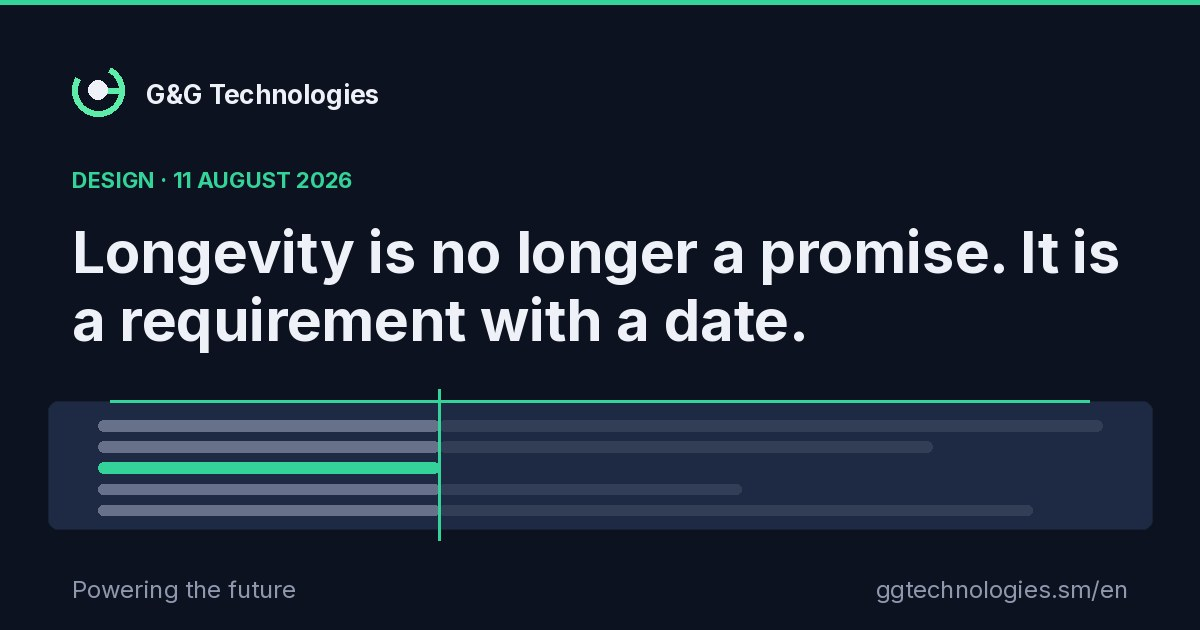
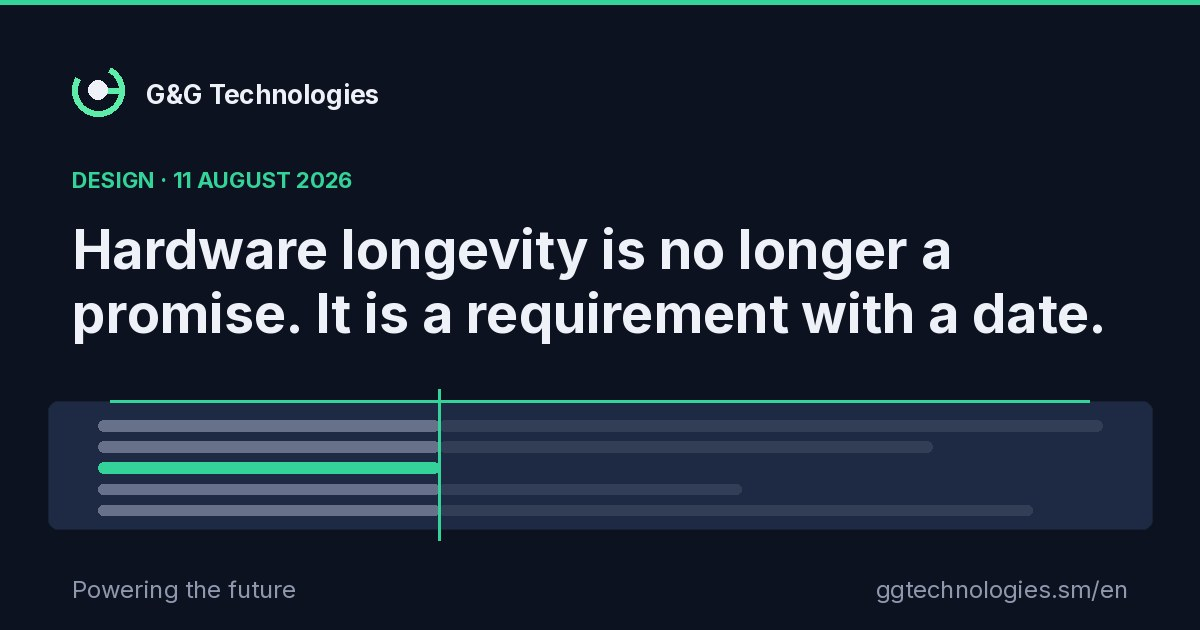
no message

Changed region(s): [[0.0617, 0.3619, 0.9558, 0.573]]

diff --git a/insights/index.html b/insights/index.html
@@ -42,7 +42,7 @@
       document.documentElement.classList.add('js');
     })();
   </script>
-  <link rel="stylesheet" href="../assets/site.css">
+  <link rel="stylesheet" href="../assets/site.58cf0724.css">
   <script type="application/ld+json">
 [
   {
@@ -125,7 +125,7 @@
         <div class="filters" data-filters hidden>
           <span class="filter-label">Filtra per argomento</span>
           <button class="filter-btn" type="button" data-tag="" aria-pressed="true">Tutti</button>
-          <button class="filter-btn" type="button" data-tag="robotica">Robotica</button><button class="filter-btn" type="button" data-tag="wearable">Wearable</button><button class="filter-btn" type="button" data-tag="ia">IA</button>
+          <button class="filter-btn" type="button" data-tag="robotica">Robotica</button><button class="filter-btn" type="button" data-tag="automazione">Automazione</button><button class="filter-btn" type="button" data-tag="wearable">Wearable</button><button class="filter-btn" type="button" data-tag="ia">IA</button>
         </div>
         <p class="filter-empty" data-filter-empty hidden>Nessun articolo con questo argomento, per ora.</p>
         <div class="insight-list">
@@ -141,9 +141,17 @@
              data-tags="wearable robotica">
             <span class="insight-thumb"><svg viewBox="0 0 800 200" aria-hidden="true" focusable="false"><ellipse cx="240" cy="100" rx="272" ry="104" fill="url(#artGlow)"/><rect x="32" y="31" width="736" height="137" rx="10" fill="url(#artPanel)" stroke="var(--border)"/><path d="M74 31 L726 31" stroke="url(#artEdge)" stroke-width="2" stroke-linecap="round"/><rect x="65" y="52" width="228" height="11" rx="4" fill="var(--muted)" opacity="0.52"/><rect x="293" y="52" width="442" height="11" rx="4" fill="var(--muted)" opacity="0.14"/><rect x="65" y="75" width="228" height="11" rx="4" fill="var(--muted)" opacity="0.52"/><rect x="293" y="75" width="328" height="11" rx="4" fill="var(--muted)" opacity="0.14"/><rect x="65" y="97" width="228" height="11" rx="4" fill="url(#artEdge)" opacity="1.00"/><rect x="65" y="120" width="228" height="11" rx="4" fill="var(--muted)" opacity="0.52"/><rect x="293" y="120" width="201" height="11" rx="4" fill="var(--muted)" opacity="0.14"/><rect x="65" y="143" width="228" height="11" rx="4" fill="var(--muted)" opacity="0.52"/><rect x="293" y="143" width="395" height="11" rx="4" fill="var(--muted)" opacity="0.14"/><path d="M293 19 L293 181" stroke="url(#artEdge)" stroke-width="2" stroke-linecap="round"/></svg></span>
             <div class="kicker">Progettazione · 11 agosto 2026</div>
-            <h3>La durata è diventata un requisito</h3>
+            <h3>La durata dell'hardware è diventata un requisito</h3>
             <p>Ecodesign, diritto alla riparazione e regolamento batterie si sommano: cosa cambia per chi progetta hardware, e le decisioni da prendere prima dell'architettura.</p>
             <span class="tag-row"><span class="tag">Wearable</span><span class="tag">Robotica</span></span>
+          </a>
+          <a class="insight-card reveal" href="/insights/telefono-come-sensore/"
+             data-tags="robotica automazione">
+            <span class="insight-thumb"><svg viewBox="0 0 800 200" aria-hidden="true" focusable="false"><ellipse cx="400" cy="100" rx="304" ry="104" fill="url(#artGlow)"/><rect x="32" y="31" width="736" height="137" rx="10" fill="url(#artPanel)" stroke="var(--border)"/><path d="M74 31 L726 31" stroke="url(#artEdge)" stroke-width="2" stroke-linecap="round"/><rect x="65" y="52" width="12" height="12" rx="4" fill="var(--muted)" opacity="0.22"/><rect x="112" y="52" width="12" height="12" rx="4" fill="var(--muted)" opacity="0.27"/><rect x="159" y="52" width="12" height="12" rx="4" fill="var(--muted)" opacity="0.32"/><rect x="206" y="52" width="12" height="12" rx="4" fill="var(--muted)" opacity="0.22"/><rect x="253" y="52" width="12" height="12" rx="4" fill="var(--muted)" opacity="0.27"/><rect x="300" y="52" width="12" height="12" rx="4" fill="var(--muted)" opacity="0.32"/><rect x="347" y="52" width="12" height="12" rx="4" fill="url(#artEdge)" opacity="1.00"/><rect x="394" y="52" width="12" height="12" rx="4" fill="var(--muted)" opacity="0.27"/><rect x="441" y="52" width="12" height="12" rx="4" fill="var(--muted)" opacity="0.32"/><rect x="488" y="52" width="12" height="12" rx="4" fill="var(--muted)" opacity="0.22"/><rect x="535" y="52" width="12" height="12" rx="4" fill="var(--muted)" opacity="0.27"/><rect x="582" y="52" width="12" height="12" rx="4" fill="var(--muted)" opacity="0.32"/><rect x="629" y="52" width="12" height="12" rx="4" fill="var(--muted)" opacity="0.22"/><rect x="676" y="52" width="12" height="12" rx="4" fill="var(--muted)" opacity="0.27"/><rect x="723" y="52" width="12" height="12" rx="4" fill="var(--muted)" opacity="0.32"/><rect x="65" y="73" width="12" height="12" rx="4" fill="var(--muted)" opacity="0.27"/><rect x="112" y="73" width="12" height="12" rx="4" fill="var(--muted)" opacity="0.32"/><rect x="159" y="73" width="12" height="12" rx="4" fill="url(#artEdge)" opacity="1.00"/><rect x="206" y="73" width="12" height="12" rx="4" fill="var(--muted)" opacity="0.27"/><rect x="253" y="73" width="12" height="12" rx="4" fill="var(--muted)" opacity="0.32"/><rect x="300" y="73" width="12" height="12" rx="4" fill="var(--muted)" opacity="0.22"/><rect x="347" y="73" width="12" height="12" rx="4" fill="var(--muted)" opacity="0.27"/><rect x="394" y="73" width="12" height="12" rx="4" fill="var(--muted)" opacity="0.32"/><rect x="441" y="73" width="12" height="12" rx="4" fill="var(--muted)" opacity="0.22"/><rect x="488" y="73" width="12" height="12" rx="4" fill="var(--muted)" opacity="0.27"/><rect x="535" y="73" width="12" height="12" rx="4" fill="var(--muted)" opacity="0.32"/><rect x="582" y="73" width="12" height="12" rx="4" fill="var(--muted)" opacity="0.22"/><rect x="629" y="73" width="12" height="12" rx="4" fill="var(--muted)" opacity="0.27"/><rect x="676" y="73" width="12" height="12" rx="4" fill="var(--muted)" opacity="0.32"/><rect x="723" y="73" width="12" height="12" rx="4" fill="var(--muted)" opacity="0.22"/><rect x="65" y="94" width="12" height="12" rx="4" fill="var(--muted)" opacity="0.32"/><rect x="112" y="94" width="12" height="12" rx="4" fill="var(--muted)" opacity="0.22"/><rect x="159" y="94" width="12" height="12" rx="4" fill="var(--muted)" opacity="0.27"/><rect x="206" y="94" width="12" height="12" rx="4" fill="var(--muted)" opacity="0.32"/><rect x="253" y="94" width="12" height="12" rx="4" fill="var(--muted)" opacity="0.22"/><rect x="300" y="94" width="12" height="12" rx="4" fill="var(--muted)" opacity="0.27"/><rect x="347" y="94" width="12" height="12" rx="4" fill="var(--muted)" opacity="0.32"/><rect x="394" y="94" width="12" height="12" rx="4" fill="var(--muted)" opacity="0.22"/><rect x="441" y="94" width="12" height="12" rx="4" fill="var(--muted)" opacity="0.27"/><rect x="488" y="94" width="12" height="12" rx="4" fill="url(#artEdge)" opacity="1.00"/><rect x="535" y="94" width="12" height="12" rx="4" fill="var(--muted)" opacity="0.22"/><rect x="582" y="94" width="12" height="12" rx="4" fill="var(--muted)" opacity="0.27"/><rect x="629" y="94" width="12" height="12" rx="4" fill="var(--muted)" opacity="0.32"/><rect x="676" y="94" width="12" height="12" rx="4" fill="var(--muted)" opacity="0.22"/><rect x="723" y="94" width="12" height="12" rx="4" fill="var(--muted)" opacity="0.27"/><rect x="65" y="115" width="12" height="12" rx="4" fill="var(--muted)" opacity="0.22"/><rect x="112" y="115" width="12" height="12" rx="4" fill="var(--muted)" opacity="0.27"/><rect x="159" y="115" width="12" height="12" rx="4" fill="var(--muted)" opacity="0.32"/><rect x="206" y="115" width="12" height="12" rx="4" fill="var(--muted)" opacity="0.22"/><rect x="253" y="115" width="12" height="12" rx="4" fill="url(#artEdge)" opacity="1.00"/><rect x="300" y="115" width="12" height="12" rx="4" fill="var(--muted)" opacity="0.32"/><rect x="347" y="115" width="12" height="12" rx="4" fill="var(--muted)" opacity="0.22"/><rect x="394" y="115" width="12" height="12" rx="4" fill="var(--muted)" opacity="0.27"/><rect x="441" y="115" width="12" height="12" rx="4" fill="var(--muted)" opacity="0.32"/><rect x="488" y="115" width="12" height="12" rx="4" fill="var(--muted)" opacity="0.22"/><rect x="535" y="115" width="12" height="12" rx="4" fill="var(--muted)" opacity="0.27"/><rect x="582" y="115" width="12" height="12" rx="4" fill="var(--muted)" opacity="0.32"/><rect x="629" y="115" width="12" height="12" rx="4" fill="var(--muted)" opacity="0.22"/><rect x="676" y="115" width="12" height="12" rx="4" fill="var(--muted)" opacity="0.27"/><rect x="723" y="115" width="12" height="12" rx="4" fill="var(--muted)" opacity="0.32"/><rect x="65" y="136" width="12" height="12" rx="4" fill="var(--muted)" opacity="0.27"/><rect x="112" y="136" width="12" height="12" rx="4" fill="var(--muted)" opacity="0.32"/><rect x="159" y="136" width="12" height="12" rx="4" fill="var(--muted)" opacity="0.22"/><rect x="206" y="136" width="12" height="12" rx="4" fill="var(--muted)" opacity="0.27"/><rect x="253" y="136" width="12" height="12" rx="4" fill="var(--muted)" opacity="0.32"/><rect x="300" y="136" width="12" height="12" rx="4" fill="var(--muted)" opacity="0.22"/><rect x="347" y="136" width="12" height="12" rx="4" fill="var(--muted)" opacity="0.27"/><rect x="394" y="136" width="12" height="12" rx="4" fill="var(--muted)" opacity="0.32"/><rect x="441" y="136" width="12" height="12" rx="4" fill="var(--muted)" opacity="0.22"/><rect x="488" y="136" width="12" height="12" rx="4" fill="var(--muted)" opacity="0.27"/><rect x="535" y="136" width="12" height="12" rx="4" fill="var(--muted)" opacity="0.32"/><rect x="582" y="136" width="12" height="12" rx="4" fill="var(--muted)" opacity="0.22"/><rect x="629" y="136" width="12" height="12" rx="4" fill="url(#artEdge)" opacity="1.00"/><rect x="676" y="136" width="12" height="12" rx="4" fill="var(--muted)" opacity="0.32"/><rect x="723" y="136" width="12" height="12" rx="4" fill="var(--muted)" opacity="0.22"/></svg></span>
+            <div class="kicker">Progettazione · 11 agosto 2026 · bozza</div>
+            <h3>Il telefono che hai già è un nodo sensore</h3>
+            <p>Prima di comprare hardware per un pilota: cosa un telefono dismesso misura già, e i cinque confini oltre i quali smette di bastare.</p>
+            <span class="tag-row"><span class="tag">Robotica</span><span class="tag">Automazione</span></span>
           </a>
         </div>
       </div>
@@ -199,6 +207,6 @@
     </div>
   </footer>
 
-  <script src="../assets/site.js" defer></script>
+  <script src="../assets/site.e222d9a6.js" defer></script>
 </body>
 </html>

diff --git a/en/insights/index.html b/en/insights/index.html
@@ -42,7 +42,7 @@
       document.documentElement.classList.add('js');
     })();
   </script>
-  <link rel="stylesheet" href="../../assets/site.css">
+  <link rel="stylesheet" href="../../assets/site.58cf0724.css">
   <script type="application/ld+json">
 [
   {
@@ -125,7 +125,7 @@
         <div class="filters" data-filters hidden>
           <span class="filter-label">Filter by topic</span>
           <button class="filter-btn" type="button" data-tag="" aria-pressed="true">All</button>
-          <button class="filter-btn" type="button" data-tag="robotica">Robotics</button><button class="filter-btn" type="button" data-tag="wearable">Wearables</button><button class="filter-btn" type="button" data-tag="ia">AI</button>
+          <button class="filter-btn" type="button" data-tag="robotica">Robotics</button><button class="filter-btn" type="button" data-tag="automazione">Automation</button><button class="filter-btn" type="button" data-tag="wearable">Wearables</button><button class="filter-btn" type="button" data-tag="ia">AI</button>
         </div>
         <p class="filter-empty" data-filter-empty hidden>No articles on this topic yet.</p>
         <div class="insight-list">
@@ -141,9 +141,17 @@
              data-tags="wearable robotica">
             <span class="insight-thumb"><svg viewBox="0 0 800 200" aria-hidden="true" focusable="false"><ellipse cx="240" cy="100" rx="272" ry="104" fill="url(#artGlow)"/><rect x="32" y="31" width="736" height="137" rx="10" fill="url(#artPanel)" stroke="var(--border)"/><path d="M74 31 L726 31" stroke="url(#artEdge)" stroke-width="2" stroke-linecap="round"/><rect x="65" y="52" width="228" height="11" rx="4" fill="var(--muted)" opacity="0.52"/><rect x="293" y="52" width="442" height="11" rx="4" fill="var(--muted)" opacity="0.14"/><rect x="65" y="75" width="228" height="11" rx="4" fill="var(--muted)" opacity="0.52"/><rect x="293" y="75" width="328" height="11" rx="4" fill="var(--muted)" opacity="0.14"/><rect x="65" y="97" width="228" height="11" rx="4" fill="url(#artEdge)" opacity="1.00"/><rect x="65" y="120" width="228" height="11" rx="4" fill="var(--muted)" opacity="0.52"/><rect x="293" y="120" width="201" height="11" rx="4" fill="var(--muted)" opacity="0.14"/><rect x="65" y="143" width="228" height="11" rx="4" fill="var(--muted)" opacity="0.52"/><rect x="293" y="143" width="395" height="11" rx="4" fill="var(--muted)" opacity="0.14"/><path d="M293 19 L293 181" stroke="url(#artEdge)" stroke-width="2" stroke-linecap="round"/></svg></span>
             <div class="kicker">Design · 11 August 2026</div>
-            <h3>Longevity has become a requirement</h3>
+            <h3>Hardware longevity has become a requirement</h3>
             <p>Ecodesign, the right to repair and the battery regulation stack up: what changes for people designing hardware, and the decisions to take before the architecture.</p>
             <span class="tag-row"><span class="tag">Wearables</span><span class="tag">Robotics</span></span>
+          </a>
+          <a class="insight-card reveal" href="/en/insights/phone-as-a-sensor/"
+             data-tags="robotica automazione">
+            <span class="insight-thumb"><svg viewBox="0 0 800 200" aria-hidden="true" focusable="false"><ellipse cx="400" cy="100" rx="304" ry="104" fill="url(#artGlow)"/><rect x="32" y="31" width="736" height="137" rx="10" fill="url(#artPanel)" stroke="var(--border)"/><path d="M74 31 L726 31" stroke="url(#artEdge)" stroke-width="2" stroke-linecap="round"/><rect x="65" y="52" width="12" height="12" rx="4" fill="var(--muted)" opacity="0.22"/><rect x="112" y="52" width="12" height="12" rx="4" fill="var(--muted)" opacity="0.27"/><rect x="159" y="52" width="12" height="12" rx="4" fill="var(--muted)" opacity="0.32"/><rect x="206" y="52" width="12" height="12" rx="4" fill="var(--muted)" opacity="0.22"/><rect x="253" y="52" width="12" height="12" rx="4" fill="var(--muted)" opacity="0.27"/><rect x="300" y="52" width="12" height="12" rx="4" fill="var(--muted)" opacity="0.32"/><rect x="347" y="52" width="12" height="12" rx="4" fill="url(#artEdge)" opacity="1.00"/><rect x="394" y="52" width="12" height="12" rx="4" fill="var(--muted)" opacity="0.27"/><rect x="441" y="52" width="12" height="12" rx="4" fill="var(--muted)" opacity="0.32"/><rect x="488" y="52" width="12" height="12" rx="4" fill="var(--muted)" opacity="0.22"/><rect x="535" y="52" width="12" height="12" rx="4" fill="var(--muted)" opacity="0.27"/><rect x="582" y="52" width="12" height="12" rx="4" fill="var(--muted)" opacity="0.32"/><rect x="629" y="52" width="12" height="12" rx="4" fill="var(--muted)" opacity="0.22"/><rect x="676" y="52" width="12" height="12" rx="4" fill="var(--muted)" opacity="0.27"/><rect x="723" y="52" width="12" height="12" rx="4" fill="var(--muted)" opacity="0.32"/><rect x="65" y="73" width="12" height="12" rx="4" fill="var(--muted)" opacity="0.27"/><rect x="112" y="73" width="12" height="12" rx="4" fill="var(--muted)" opacity="0.32"/><rect x="159" y="73" width="12" height="12" rx="4" fill="url(#artEdge)" opacity="1.00"/><rect x="206" y="73" width="12" height="12" rx="4" fill="var(--muted)" opacity="0.27"/><rect x="253" y="73" width="12" height="12" rx="4" fill="var(--muted)" opacity="0.32"/><rect x="300" y="73" width="12" height="12" rx="4" fill="var(--muted)" opacity="0.22"/><rect x="347" y="73" width="12" height="12" rx="4" fill="var(--muted)" opacity="0.27"/><rect x="394" y="73" width="12" height="12" rx="4" fill="var(--muted)" opacity="0.32"/><rect x="441" y="73" width="12" height="12" rx="4" fill="var(--muted)" opacity="0.22"/><rect x="488" y="73" width="12" height="12" rx="4" fill="var(--muted)" opacity="0.27"/><rect x="535" y="73" width="12" height="12" rx="4" fill="var(--muted)" opacity="0.32"/><rect x="582" y="73" width="12" height="12" rx="4" fill="var(--muted)" opacity="0.22"/><rect x="629" y="73" width="12" height="12" rx="4" fill="var(--muted)" opacity="0.27"/><rect x="676" y="73" width="12" height="12" rx="4" fill="var(--muted)" opacity="0.32"/><rect x="723" y="73" width="12" height="12" rx="4" fill="var(--muted)" opacity="0.22"/><rect x="65" y="94" width="12" height="12" rx="4" fill="var(--muted)" opacity="0.32"/><rect x="112" y="94" width="12" height="12" rx="4" fill="var(--muted)" opacity="0.22"/><rect x="159" y="94" width="12" height="12" rx="4" fill="var(--muted)" opacity="0.27"/><rect x="206" y="94" width="12" height="12" rx="4" fill="var(--muted)" opacity="0.32"/><rect x="253" y="94" width="12" height="12" rx="4" fill="var(--muted)" opacity="0.22"/><rect x="300" y="94" width="12" height="12" rx="4" fill="var(--muted)" opacity="0.27"/><rect x="347" y="94" width="12" height="12" rx="4" fill="var(--muted)" opacity="0.32"/><rect x="394" y="94" width="12" height="12" rx="4" fill="var(--muted)" opacity="0.22"/><rect x="441" y="94" width="12" height="12" rx="4" fill="var(--muted)" opacity="0.27"/><rect x="488" y="94" width="12" height="12" rx="4" fill="url(#artEdge)" opacity="1.00"/><rect x="535" y="94" width="12" height="12" rx="4" fill="var(--muted)" opacity="0.22"/><rect x="582" y="94" width="12" height="12" rx="4" fill="var(--muted)" opacity="0.27"/><rect x="629" y="94" width="12" height="12" rx="4" fill="var(--muted)" opacity="0.32"/><rect x="676" y="94" width="12" height="12" rx="4" fill="var(--muted)" opacity="0.22"/><rect x="723" y="94" width="12" height="12" rx="4" fill="var(--muted)" opacity="0.27"/><rect x="65" y="115" width="12" height="12" rx="4" fill="var(--muted)" opacity="0.22"/><rect x="112" y="115" width="12" height="12" rx="4" fill="var(--muted)" opacity="0.27"/><rect x="159" y="115" width="12" height="12" rx="4" fill="var(--muted)" opacity="0.32"/><rect x="206" y="115" width="12" height="12" rx="4" fill="var(--muted)" opacity="0.22"/><rect x="253" y="115" width="12" height="12" rx="4" fill="url(#artEdge)" opacity="1.00"/><rect x="300" y="115" width="12" height="12" rx="4" fill="var(--muted)" opacity="0.32"/><rect x="347" y="115" width="12" height="12" rx="4" fill="var(--muted)" opacity="0.22"/><rect x="394" y="115" width="12" height="12" rx="4" fill="var(--muted)" opacity="0.27"/><rect x="441" y="115" width="12" height="12" rx="4" fill="var(--muted)" opacity="0.32"/><rect x="488" y="115" width="12" height="12" rx="4" fill="var(--muted)" opacity="0.22"/><rect x="535" y="115" width="12" height="12" rx="4" fill="var(--muted)" opacity="0.27"/><rect x="582" y="115" width="12" height="12" rx="4" fill="var(--muted)" opacity="0.32"/><rect x="629" y="115" width="12" height="12" rx="4" fill="var(--muted)" opacity="0.22"/><rect x="676" y="115" width="12" height="12" rx="4" fill="var(--muted)" opacity="0.27"/><rect x="723" y="115" width="12" height="12" rx="4" fill="var(--muted)" opacity="0.32"/><rect x="65" y="136" width="12" height="12" rx="4" fill="var(--muted)" opacity="0.27"/><rect x="112" y="136" width="12" height="12" rx="4" fill="var(--muted)" opacity="0.32"/><rect x="159" y="136" width="12" height="12" rx="4" fill="var(--muted)" opacity="0.22"/><rect x="206" y="136" width="12" height="12" rx="4" fill="var(--muted)" opacity="0.27"/><rect x="253" y="136" width="12" height="12" rx="4" fill="var(--muted)" opacity="0.32"/><rect x="300" y="136" width="12" height="12" rx="4" fill="var(--muted)" opacity="0.22"/><rect x="347" y="136" width="12" height="12" rx="4" fill="var(--muted)" opacity="0.27"/><rect x="394" y="136" width="12" height="12" rx="4" fill="var(--muted)" opacity="0.32"/><rect x="441" y="136" width="12" height="12" rx="4" fill="var(--muted)" opacity="0.22"/><rect x="488" y="136" width="12" height="12" rx="4" fill="var(--muted)" opacity="0.27"/><rect x="535" y="136" width="12" height="12" rx="4" fill="var(--muted)" opacity="0.32"/><rect x="582" y="136" width="12" height="12" rx="4" fill="var(--muted)" opacity="0.22"/><rect x="629" y="136" width="12" height="12" rx="4" fill="url(#artEdge)" opacity="1.00"/><rect x="676" y="136" width="12" height="12" rx="4" fill="var(--muted)" opacity="0.32"/><rect x="723" y="136" width="12" height="12" rx="4" fill="var(--muted)" opacity="0.22"/></svg></span>
+            <div class="kicker">Design · 11 August 2026 · draft</div>
+            <h3>The phone you already own is a sensor node</h3>
+            <p>Before buying hardware for a pilot: what a retired phone already measures, and the five boundaries where it stops being enough.</p>
+            <span class="tag-row"><span class="tag">Robotics</span><span class="tag">Automation</span></span>
           </a>
         </div>
       </div>
@@ -199,6 +207,6 @@
     </div>
   </footer>
 
-  <script src="../../assets/site.js" defer></script>
+  <script src="../../assets/site.e222d9a6.js" defer></script>
 </body>
 </html>

diff --git a/insights/durabilita-per-progetto/index.html b/insights/durabilita-per-progetto/index.html
@@ -3,7 +3,7 @@
 <head>
   <meta charset="UTF-8">
   <meta name="viewport" content="width=device-width, initial-scale=1.0">
-  <title>La durata è diventata un requisito — G&amp;G Technologies</title>
+  <title>La durata dell'hardware è un requisito — G&amp;G Technologies</title>
   <meta name="description" content="Ecodesign, diritto alla riparazione e regolamento batterie si sommano: cosa cambia per chi progetta hardware, e le decisioni da prendere prima dell'architettura.">
   <meta name="author" content="Gian Angelo Geminiani">
   <meta name="robots" content="index, follow, max-image-preview:large">
@@ -15,7 +15,7 @@
   <!-- Open Graph -->
   <meta property="og:type" content="article">
   <meta property="og:site_name" content="G&amp;G Technologies">
-  <meta property="og:title" content="La durata è diventata un requisito — G&amp;G Technologies">
+  <meta property="og:title" content="La durata dell'hardware è un requisito — G&amp;G Technologies">
   <meta property="og:description" content="Ecodesign, diritto alla riparazione e regolamento batterie si sommano: cosa cambia per chi progetta hardware, e le decisioni da prendere prima dell'architettura.">
   <meta property="og:url" content="https://ggtechnologies.sm/insights/durabilita-per-progetto/">
   <meta property="og:image" content="https://ggtechnologies.sm/assets/og-durabilita-per-progetto-it.jpg">
@@ -26,7 +26,7 @@
   <meta property="article:published_time" content="2026-08-11">
   <!-- Twitter / X -->
   <meta name="twitter:card" content="summary_large_image">
-  <meta name="twitter:title" content="La durata è diventata un requisito — G&amp;G Technologies">
+  <meta name="twitter:title" content="La durata dell'hardware è un requisito — G&amp;G Technologies">
   <meta name="twitter:description" content="Ecodesign, diritto alla riparazione e regolamento batterie si sommano: cosa cambia per chi progetta hardware, e le decisioni da prendere prima dell'architettura.">
   <meta name="twitter:image" content="https://ggtechnologies.sm/assets/og-durabilita-per-progetto-it.jpg">
   <!-- Favicon -->
@@ -43,7 +43,7 @@
       document.documentElement.classList.add('js');
     })();
   </script>
-  <link rel="stylesheet" href="../../assets/site.css">
+  <link rel="stylesheet" href="../../assets/site.58cf0724.css">
   <script type="application/ld+json">
 [
   {
@@ -65,7 +65,7 @@
       {
         "@type": "ListItem",
         "position": 3,
-        "name": "La durata è diventata un requisito",
+        "name": "La durata dell'hardware è diventata un requisito",
         "item": "https://ggtechnologies.sm/insights/durabilita-per-progetto/"
       }
     ]
@@ -73,8 +73,8 @@
   {
     "@context": "https://schema.org",
     "@type": "Article",
-    "headline": "La durata non è più una promessa. È un requisito con una data.",
-    "name": "La durata è diventata un requisito",
+    "headline": "La durata dell'hardware non è più una promessa. È un requisito con una data.",
+    "name": "La durata dell'hardware è diventata un requisito",
     "url": "https://ggtechnologies.sm/insights/durabilita-per-progetto/",
     "description": "Ecodesign, diritto alla riparazione e regolamento batterie si sommano: cosa cambia per chi progetta hardware, e le decisioni da prendere prima dell'architettura.",
     "inLanguage": "it",
@@ -146,9 +146,9 @@
 
       <div class="container">
         <div class="prose">
-          <nav class="breadcrumb" aria-label="Percorso"><ol><li><a href="/">Home</a></li><li><a href="/insights/">Insights</a></li><li aria-current="page">La durata è diventata un requisito</li></ol></nav>
+          <nav class="breadcrumb" aria-label="Percorso"><ol><li><a href="/">Home</a></li><li><a href="/insights/">Insights</a></li><li aria-current="page">La durata dell'hardware è diventata un requisito</li></ol></nav>
           <div class="kicker">Progettazione · 11 agosto 2026</div>
-          <h1>La durata non è più una promessa. È un <span class="grad-text">requisito con una data</span>.</h1>
+          <h1>La durata dell'hardware non è più una promessa. È un <span class="grad-text">requisito con una data</span>.</h1>
           <p class="hero-sub">Tre norme europee convergono sullo stesso punto, con soglie numeriche e scadenze. Poi sette decisioni da prendere in fase di progetto, non dopo.</p>
         </div>
       </div>
@@ -234,7 +234,7 @@
         </div>
         <div class="share">
           <span class="share-label">Condividi</span>
-          <a class="share-btn" href="https://www.linkedin.com/sharing/share-offsite/?url=https%3A%2F%2Fggtechnologies.sm%2Finsights%2Fdurabilita-per-progetto%2F" title="Condividi su LinkedIn" aria-label="Condividi su LinkedIn" target="_blank" rel="noopener"><svg viewBox="0 0 24 24" fill="currentColor" aria-hidden="true"><path d="M4.98 3.5a2.5 2.5 0 1 1 0 5 2.5 2.5 0 0 1 0-5ZM3 9h4v12H3zM10 9h3.8v1.7h.05c.53-.95 1.83-1.95 3.77-1.95 4.03 0 4.78 2.5 4.78 5.75V21h-4v-5.6c0-1.34-.03-3.06-1.9-3.06-1.9 0-2.2 1.46-2.2 2.96V21h-4z"/></svg><span>LinkedIn</span></a><a class="share-btn" href="https://x.com/intent/post?url=https%3A%2F%2Fggtechnologies.sm%2Finsights%2Fdurabilita-per-progetto%2F&amp;text=La%20durata%20%C3%A8%20diventata%20un%20requisito" title="Condividi su X" aria-label="Condividi su X" target="_blank" rel="noopener"><svg viewBox="0 0 24 24" fill="currentColor" aria-hidden="true"><path d="M17.3 3h3.1l-6.8 7.75L21.6 21h-6.3l-4.9-6.4L4.8 21H1.7l7.25-8.3L1.9 3h6.45l4.45 5.9Zm-1.1 16.1h1.7L7.9 4.8H6.05Z"/></svg><span>X</span></a><a class="share-btn" href="mailto:?subject=La%20durata%20%C3%A8%20diventata%20un%20requisito&amp;body=https%3A%2F%2Fggtechnologies.sm%2Finsights%2Fdurabilita-per-progetto%2F" title="Manda per email" aria-label="Manda per email"><svg viewBox="0 0 24 24" fill="currentColor" aria-hidden="true"><path d="M3 5h18a1 1 0 0 1 1 1v12a1 1 0 0 1-1 1H3a1 1 0 0 1-1-1V6a1 1 0 0 1 1-1Zm9 8.1L20 7.2V6.6L12 12 4 6.6v.6Z"/></svg><span>Email</span></a>
+          <a class="share-btn" href="https://www.linkedin.com/sharing/share-offsite/?url=https%3A%2F%2Fggtechnologies.sm%2Finsights%2Fdurabilita-per-progetto%2F" title="Condividi su LinkedIn" aria-label="Condividi su LinkedIn" target="_blank" rel="noopener"><svg viewBox="0 0 24 24" fill="currentColor" aria-hidden="true"><path d="M4.98 3.5a2.5 2.5 0 1 1 0 5 2.5 2.5 0 0 1 0-5ZM3 9h4v12H3zM10 9h3.8v1.7h.05c.53-.95 1.83-1.95 3.77-1.95 4.03 0 4.78 2.5 4.78 5.75V21h-4v-5.6c0-1.34-.03-3.06-1.9-3.06-1.9 0-2.2 1.46-2.2 2.96V21h-4z"/></svg><span>LinkedIn</span></a><a class="share-btn" href="https://x.com/intent/post?url=https%3A%2F%2Fggtechnologies.sm%2Finsights%2Fdurabilita-per-progetto%2F&amp;text=La%20durata%20dell%27hardware%20%C3%A8%20un%20requisito" title="Condividi su X" aria-label="Condividi su X" target="_blank" rel="noopener"><svg viewBox="0 0 24 24" fill="currentColor" aria-hidden="true"><path d="M17.3 3h3.1l-6.8 7.75L21.6 21h-6.3l-4.9-6.4L4.8 21H1.7l7.25-8.3L1.9 3h6.45l4.45 5.9Zm-1.1 16.1h1.7L7.9 4.8H6.05Z"/></svg><span>X</span></a><a class="share-btn" href="mailto:?subject=La%20durata%20dell%27hardware%20%C3%A8%20un%20requisito&amp;body=https%3A%2F%2Fggtechnologies.sm%2Finsights%2Fdurabilita-per-progetto%2F" title="Manda per email" aria-label="Manda per email"><svg viewBox="0 0 24 24" fill="currentColor" aria-hidden="true"><path d="M3 5h18a1 1 0 0 1 1 1v12a1 1 0 0 1-1 1H3a1 1 0 0 1-1-1V6a1 1 0 0 1 1-1Zm9 8.1L20 7.2V6.6L12 12 4 6.6v.6Z"/></svg><span>Email</span></a>
           <button class="share-btn" type="button" data-share-copy="https://ggtechnologies.sm/insights/durabilita-per-progetto/"
                   data-share-done="Link copiato"
                   title="Copia il link" aria-label="Copia il link">
@@ -326,6 +326,6 @@
     </div>
   </footer>
 
-  <script src="../../assets/site.js" defer></script>
+  <script src="../../assets/site.e222d9a6.js" defer></script>
 </body>
 </html>

diff --git a/en/insights/durability-by-design/index.html b/en/insights/durability-by-design/index.html
@@ -3,7 +3,7 @@
 <head>
   <meta charset="UTF-8">
   <meta name="viewport" content="width=device-width, initial-scale=1.0">
-  <title>Longevity has become a requirement — G&amp;G Technologies</title>
+  <title>Hardware longevity is now a requirement — G&amp;G Technologies</title>
   <meta name="description" content="Ecodesign, the right to repair and the battery regulation stack up: what changes for people designing hardware, and the decisions to take before the architecture.">
   <meta name="author" content="Gian Angelo Geminiani">
   <meta name="robots" content="index, follow, max-image-preview:large">
@@ -15,7 +15,7 @@
   <!-- Open Graph -->
   <meta property="og:type" content="article">
   <meta property="og:site_name" content="G&amp;G Technologies">
-  <meta property="og:title" content="Longevity has become a requirement — G&amp;G Technologies">
+  <meta property="og:title" content="Hardware longevity is now a requirement — G&amp;G Technologies">
   <meta property="og:description" content="Ecodesign, the right to repair and the battery regulation stack up: what changes for people designing hardware, and the decisions to take before the architecture.">
   <meta property="og:url" content="https://ggtechnologies.sm/en/insights/durability-by-design/">
   <meta property="og:image" content="https://ggtechnologies.sm/assets/og-durabilita-per-progetto-en.jpg">
@@ -26,7 +26,7 @@
   <meta property="article:published_time" content="2026-08-11">
   <!-- Twitter / X -->
   <meta name="twitter:card" content="summary_large_image">
-  <meta name="twitter:title" content="Longevity has become a requirement — G&amp;G Technologies">
+  <meta name="twitter:title" content="Hardware longevity is now a requirement — G&amp;G Technologies">
   <meta name="twitter:description" content="Ecodesign, the right to repair and the battery regulation stack up: what changes for people designing hardware, and the decisions to take before the architecture.">
   <meta name="twitter:image" content="https://ggtechnologies.sm/assets/og-durabilita-per-progetto-en.jpg">
   <!-- Favicon -->
@@ -43,7 +43,7 @@
       document.documentElement.classList.add('js');
     })();
   </script>
-  <link rel="stylesheet" href="../../../assets/site.css">
+  <link rel="stylesheet" href="../../../assets/site.58cf0724.css">
   <script type="application/ld+json">
 [
   {
@@ -65,7 +65,7 @@
       {
         "@type": "ListItem",
         "position": 3,
-        "name": "Longevity has become a requirement",
+        "name": "Hardware longevity has become a requirement",
         "item": "https://ggtechnologies.sm/en/insights/durability-by-design/"
       }
     ]
@@ -73,8 +73,8 @@
   {
     "@context": "https://schema.org",
     "@type": "Article",
-    "headline": "Longevity is no longer a promise. It is a requirement with a date.",
-    "name": "Longevity has become a requirement",
+    "headline": "Hardware longevity is no longer a promise. It is a requirement with a date.",
+    "name": "Hardware longevity has become a requirement",
     "url": "https://ggtechnologies.sm/en/insights/durability-by-design/",
     "description": "Ecodesign, the right to repair and the battery regulation stack up: what changes for people designing hardware, and the decisions to take before the architecture.",
     "inLanguage": "en",
@@ -146,9 +146,9 @@
 
       <div class="container">
         <div class="prose">
-          <nav class="breadcrumb" aria-label="Breadcrumb"><ol><li><a href="/en/">Home</a></li><li><a href="/en/insights/">Insights</a></li><li aria-current="page">Longevity has become a requirement</li></ol></nav>
+          <nav class="breadcrumb" aria-label="Breadcrumb"><ol><li><a href="/en/">Home</a></li><li><a href="/en/insights/">Insights</a></li><li aria-current="page">Hardware longevity has become a requirement</li></ol></nav>
           <div class="kicker">Design · 11 August 2026</div>
-          <h1>Longevity is no longer a promise. It is a <span class="grad-text">requirement with a date</span>.</h1>
+          <h1>Hardware longevity is no longer a promise. It is a <span class="grad-text">requirement with a date</span>.</h1>
           <p class="hero-sub">Three European rules converge on the same point, with numeric thresholds and deadlines. Then seven decisions to take at design time, not after.</p>
         </div>
       </div>
@@ -234,7 +234,7 @@
         </div>
         <div class="share">
           <span class="share-label">Share</span>
-          <a class="share-btn" href="https://www.linkedin.com/sharing/share-offsite/?url=https%3A%2F%2Fggtechnologies.sm%2Fen%2Finsights%2Fdurability-by-design%2F" title="Share on LinkedIn" aria-label="Share on LinkedIn" target="_blank" rel="noopener"><svg viewBox="0 0 24 24" fill="currentColor" aria-hidden="true"><path d="M4.98 3.5a2.5 2.5 0 1 1 0 5 2.5 2.5 0 0 1 0-5ZM3 9h4v12H3zM10 9h3.8v1.7h.05c.53-.95 1.83-1.95 3.77-1.95 4.03 0 4.78 2.5 4.78 5.75V21h-4v-5.6c0-1.34-.03-3.06-1.9-3.06-1.9 0-2.2 1.46-2.2 2.96V21h-4z"/></svg><span>LinkedIn</span></a><a class="share-btn" href="https://x.com/intent/post?url=https%3A%2F%2Fggtechnologies.sm%2Fen%2Finsights%2Fdurability-by-design%2F&amp;text=Longevity%20has%20become%20a%20requirement" title="Share on X" aria-label="Share on X" target="_blank" rel="noopener"><svg viewBox="0 0 24 24" fill="currentColor" aria-hidden="true"><path d="M17.3 3h3.1l-6.8 7.75L21.6 21h-6.3l-4.9-6.4L4.8 21H1.7l7.25-8.3L1.9 3h6.45l4.45 5.9Zm-1.1 16.1h1.7L7.9 4.8H6.05Z"/></svg><span>X</span></a><a class="share-btn" href="mailto:?subject=Longevity%20has%20become%20a%20requirement&amp;body=https%3A%2F%2Fggtechnologies.sm%2Fen%2Finsights%2Fdurability-by-design%2F" title="Send by email" aria-label="Send by email"><svg viewBox="0 0 24 24" fill="currentColor" aria-hidden="true"><path d="M3 5h18a1 1 0 0 1 1 1v12a1 1 0 0 1-1 1H3a1 1 0 0 1-1-1V6a1 1 0 0 1 1-1Zm9 8.1L20 7.2V6.6L12 12 4 6.6v.6Z"/></svg><span>Email</span></a>
+          <a class="share-btn" href="https://www.linkedin.com/sharing/share-offsite/?url=https%3A%2F%2Fggtechnologies.sm%2Fen%2Finsights%2Fdurability-by-design%2F" title="Share on LinkedIn" aria-label="Share on LinkedIn" target="_blank" rel="noopener"><svg viewBox="0 0 24 24" fill="currentColor" aria-hidden="true"><path d="M4.98 3.5a2.5 2.5 0 1 1 0 5 2.5 2.5 0 0 1 0-5ZM3 9h4v12H3zM10 9h3.8v1.7h.05c.53-.95 1.83-1.95 3.77-1.95 4.03 0 4.78 2.5 4.78 5.75V21h-4v-5.6c0-1.34-.03-3.06-1.9-3.06-1.9 0-2.2 1.46-2.2 2.96V21h-4z"/></svg><span>LinkedIn</span></a><a class="share-btn" href="https://x.com/intent/post?url=https%3A%2F%2Fggtechnologies.sm%2Fen%2Finsights%2Fdurability-by-design%2F&amp;text=Hardware%20longevity%20is%20now%20a%20requirement" title="Share on X" aria-label="Share on X" target="_blank" rel="noopener"><svg viewBox="0 0 24 24" fill="currentColor" aria-hidden="true"><path d="M17.3 3h3.1l-6.8 7.75L21.6 21h-6.3l-4.9-6.4L4.8 21H1.7l7.25-8.3L1.9 3h6.45l4.45 5.9Zm-1.1 16.1h1.7L7.9 4.8H6.05Z"/></svg><span>X</span></a><a class="share-btn" href="mailto:?subject=Hardware%20longevity%20is%20now%20a%20requirement&amp;body=https%3A%2F%2Fggtechnologies.sm%2Fen%2Finsights%2Fdurability-by-design%2F" title="Send by email" aria-label="Send by email"><svg viewBox="0 0 24 24" fill="currentColor" aria-hidden="true"><path d="M3 5h18a1 1 0 0 1 1 1v12a1 1 0 0 1-1 1H3a1 1 0 0 1-1-1V6a1 1 0 0 1 1-1Zm9 8.1L20 7.2V6.6L12 12 4 6.6v.6Z"/></svg><span>Email</span></a>
           <button class="share-btn" type="button" data-share-copy="https://ggtechnologies.sm/en/insights/durability-by-design/"
                   data-share-done="Link copied"
                   title="Copy the link" aria-label="Copy the link">
@@ -326,6 +326,6 @@
     </div>
   </footer>
 
-  <script src="../../../assets/site.js" defer></script>
+  <script src="../../../assets/site.e222d9a6.js" defer></script>
 </body>
 </html>

diff --git a/en/on-premise-ai/index.html b/en/on-premise-ai/index.html
@@ -7,7 +7,7 @@
   <link rel="canonical" href="https://ggtechnologies.sm/en/services/on-premise-ai/">
   <meta http-equiv="refresh" content="0; url=https://ggtechnologies.sm/en/services/on-premise-ai/">
   <meta name="robots" content="noarchive">
-  <link rel="stylesheet" href="/assets/site.css">
+  <link rel="stylesheet" href="/assets/site.58cf0724.css">
 </head>
 <body>
   <main id="main" style="min-height:60vh;display:grid;place-items:center;text-align:center;padding:40px">

diff --git a/ai-on-premise/index.html b/ai-on-premise/index.html
@@ -7,7 +7,7 @@
   <link rel="canonical" href="https://ggtechnologies.sm/servizi/ai-on-premise/">
   <meta http-equiv="refresh" content="0; url=https://ggtechnologies.sm/servizi/ai-on-premise/">
   <meta name="robots" content="noarchive">
-  <link rel="stylesheet" href="/assets/site.css">
+  <link rel="stylesheet" href="/assets/site.58cf0724.css">
 </head>
 <body>
   <main id="main" style="min-height:60vh;display:grid;place-items:center;text-align:center;padding:40px">

diff --git a/en/insights/ai-act-client-data/index.html b/en/insights/ai-act-client-data/index.html
@@ -43,7 +43,7 @@
       document.documentElement.classList.add('js');
     })();
   </script>
-  <link rel="stylesheet" href="../../../assets/site.css">
+  <link rel="stylesheet" href="../../../assets/site.58cf0724.css">
   <script type="application/ld+json">
 [
   {
@@ -354,6 +354,6 @@
     </div>
   </footer>
 
-  <script src="../../../assets/site.js" defer></script>
+  <script src="../../../assets/site.e222d9a6.js" defer></script>
 </body>
 </html>

diff --git a/en/projects/home-care-robot/index.html b/en/projects/home-care-robot/index.html
@@ -43,7 +43,7 @@
       document.documentElement.classList.add('js');
     })();
   </script>
-  <link rel="stylesheet" href="../../../assets/site.css">
+  <link rel="stylesheet" href="../../../assets/site.58cf0724.css">
   <script type="application/ld+json">
 [
   {
@@ -474,6 +474,6 @@
     </div>
   </footer>
 
-  <script src="../../../assets/site.js" defer></script>
+  <script src="../../../assets/site.e222d9a6.js" defer></script>
 </body>
 </html>

diff --git a/en/services/artificial-intelligence/index.html b/en/services/artificial-intelligence/index.html
@@ -43,7 +43,7 @@
       document.documentElement.classList.add('js');
     })();
   </script>
-  <link rel="stylesheet" href="../../../assets/site.css">
+  <link rel="stylesheet" href="../../../assets/site.58cf0724.css">
   <script type="application/ld+json">
 [
   {
@@ -435,6 +435,6 @@
     </div>
   </footer>
 
-  <script src="../../../assets/site.js" defer></script>
+  <script src="../../../assets/site.e222d9a6.js" defer></script>
 </body>
 </html>

diff --git a/en/services/medical-wearables/index.html b/en/services/medical-wearables/index.html
@@ -43,7 +43,7 @@
       document.documentElement.classList.add('js');
     })();
   </script>
-  <link rel="stylesheet" href="../../../assets/site.css">
+  <link rel="stylesheet" href="../../../assets/site.58cf0724.css">
   <script type="application/ld+json">
 [
   {
@@ -515,6 +515,6 @@
     </div>
   </footer>
 
-  <script src="../../../assets/site.js" defer></script>
+  <script src="../../../assets/site.e222d9a6.js" defer></script>
 </body>
 </html>

diff --git a/en/services/on-premise-ai/index.html b/en/services/on-premise-ai/index.html
@@ -43,7 +43,7 @@
       document.documentElement.classList.add('js');
     })();
   </script>
-  <link rel="stylesheet" href="../../../assets/site.css">
+  <link rel="stylesheet" href="../../../assets/site.58cf0724.css">
   <script type="application/ld+json">
 [
   {
@@ -428,6 +428,6 @@
     </div>
   </footer>
 
-  <script src="../../../assets/site.js" defer></script>
+  <script src="../../../assets/site.e222d9a6.js" defer></script>
 </body>
 </html>

diff --git a/en/services/robotics-automation/index.html b/en/services/robotics-automation/index.html
@@ -43,7 +43,7 @@
       document.documentElement.classList.add('js');
     })();
   </script>
-  <link rel="stylesheet" href="../../../assets/site.css">
+  <link rel="stylesheet" href="../../../assets/site.58cf0724.css">
   <script type="application/ld+json">
 [
   {
@@ -446,6 +446,6 @@
     </div>
   </footer>
 
-  <script src="../../../assets/site.js" defer></script>
+  <script src="../../../assets/site.e222d9a6.js" defer></script>
 </body>
 </html>
